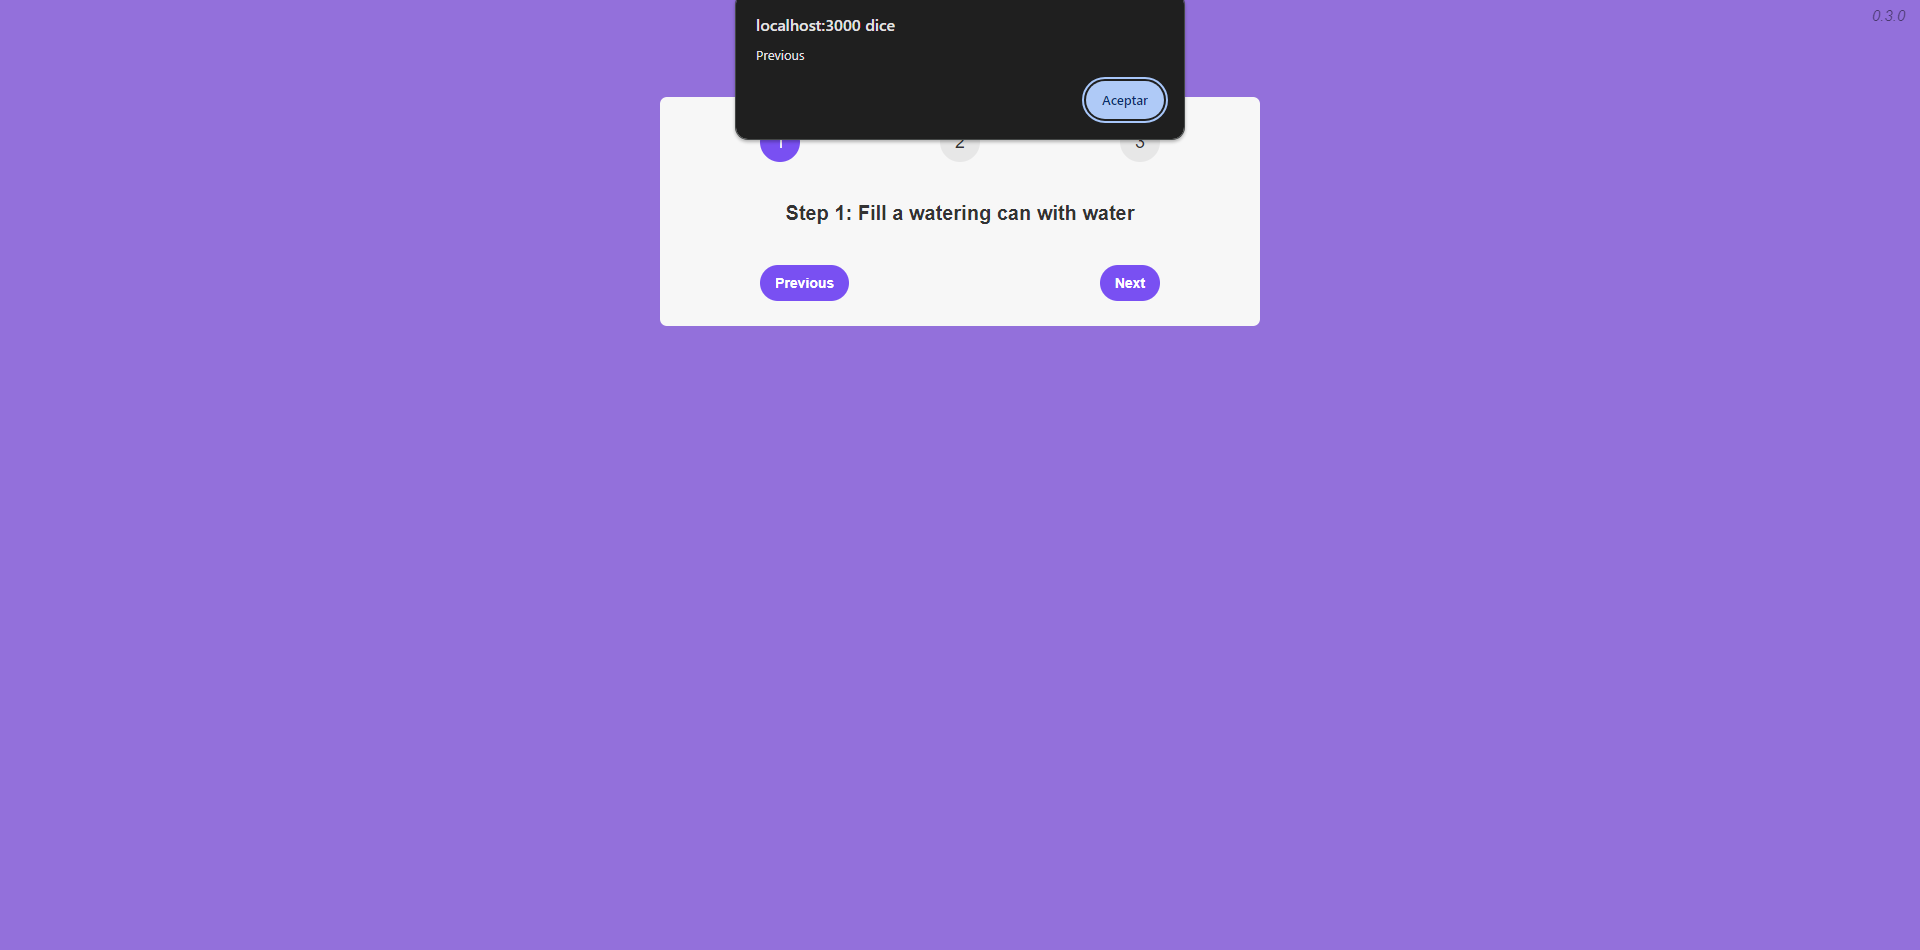
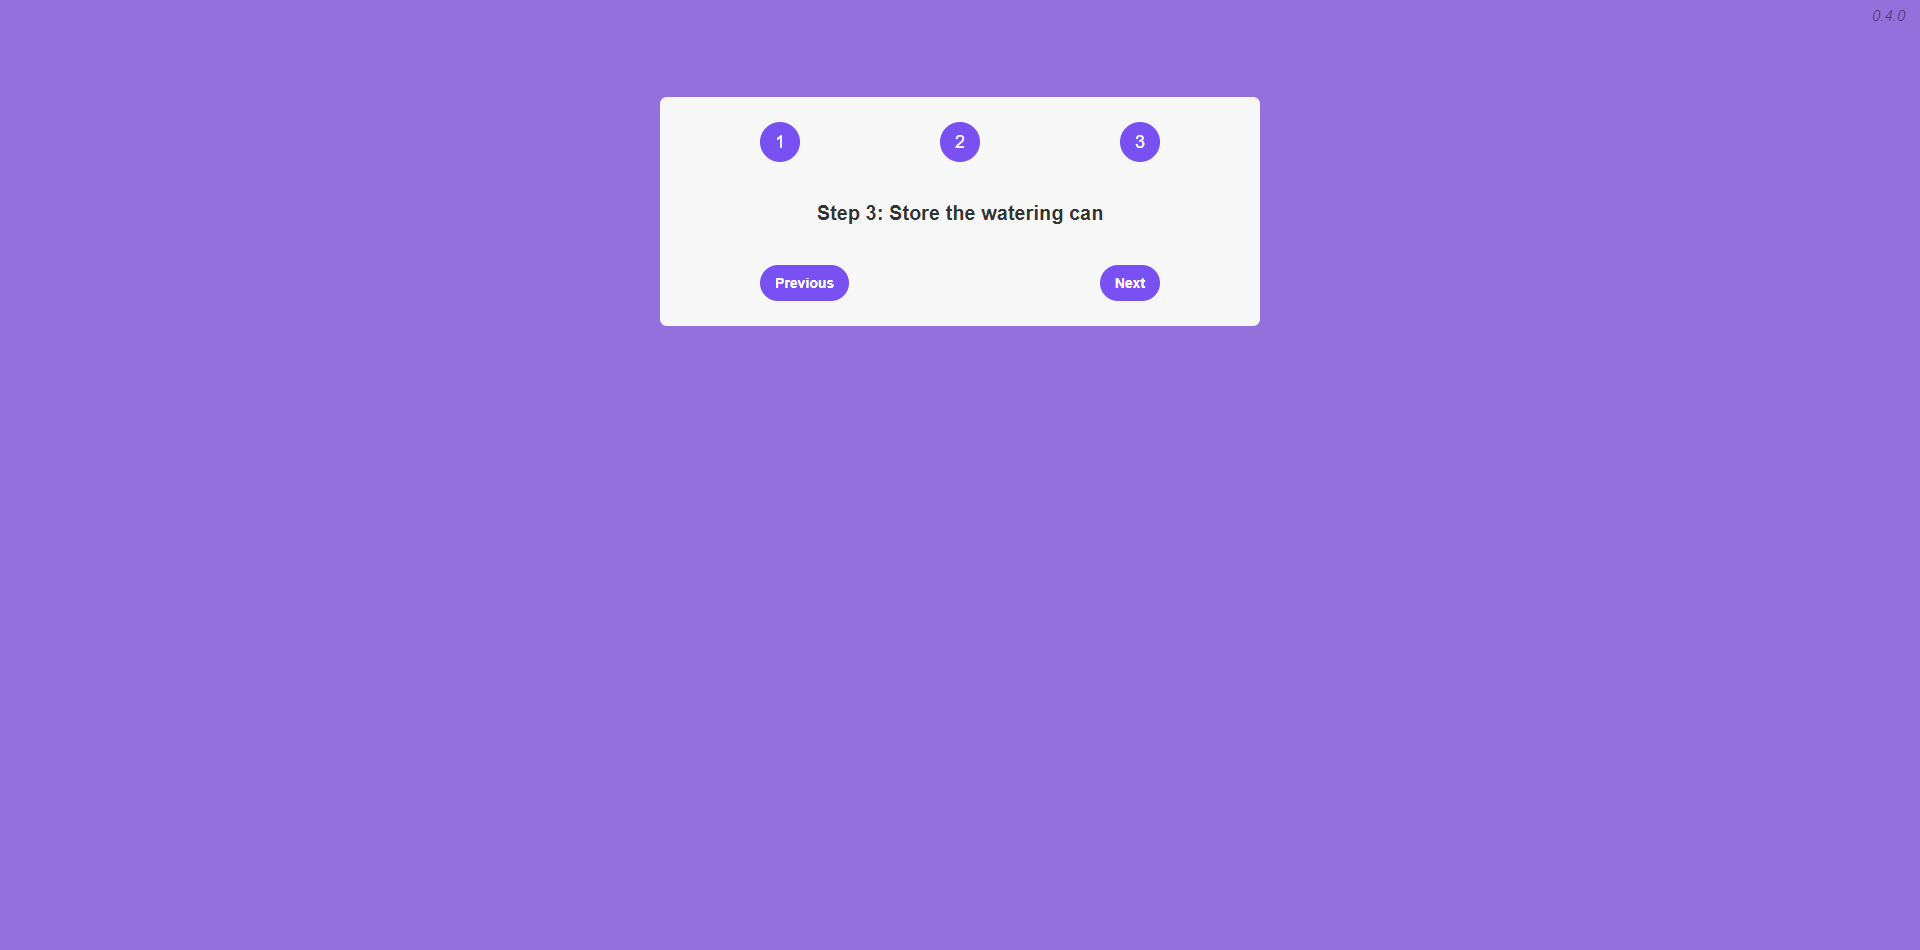
STEPS 0.4.0
Add step state
Update App.js

Changed region(s): [[0.375, 0.0, 0.625, 0.1832], [0.4062, 0.2137, 0.5938, 0.2442]]

diff --git a/src/App.js b/src/App.js
@@ -1,3 +1,5 @@
+import { useState } from 'react';
+
 const messages = [
   "Fill a watering can with water",
   "Water the plants",
@@ -5,17 +7,24 @@ const messages = [
 ];
 
 export default function App() {
-  let step = 1;
+  const [step, setStep] = useState(1);
 
-  function handlePrevious() { alert("Previous") };
-  function handleNext() { alert("Next") };
+  function handlePrevious() {
+    if (step > 1)
+      setStep(step - 1);
+  };
+
+  function handleNext() {
+    if (step < 3)
+      setStep(step + 1);
+  };
 
   return <>
     <div className="steps">
       <div className="numbers">
-        <div className={`${step >= 1 ? "active" : ""}`}>1</div>
-        <div className={`${step >= 2 ? "active" : ""}`}>2</div>
-        <div className={`${step >= 3 ? "active" : ""}`}>3</div>
+        <div className={step >= 1 ? "active" : ""}>1</div>
+        <div className={step >= 2 ? "active" : ""}>2</div>
+        <div className={step >= 3 ? "active" : ""}>3</div>
       </div>
       <p className="message">Step {step}: {messages[step - 1]}</p>
       <div className="buttons">

diff --git a/README.md b/README.md
@@ -10,7 +10,7 @@
 
 - **STACK :**
 
-  - **Steps** : `0.3.0`
+  - **Steps** : `0.4.0`
   - **React** : `18.3.1`
   - **React Dom** : `18.3.1`
 
